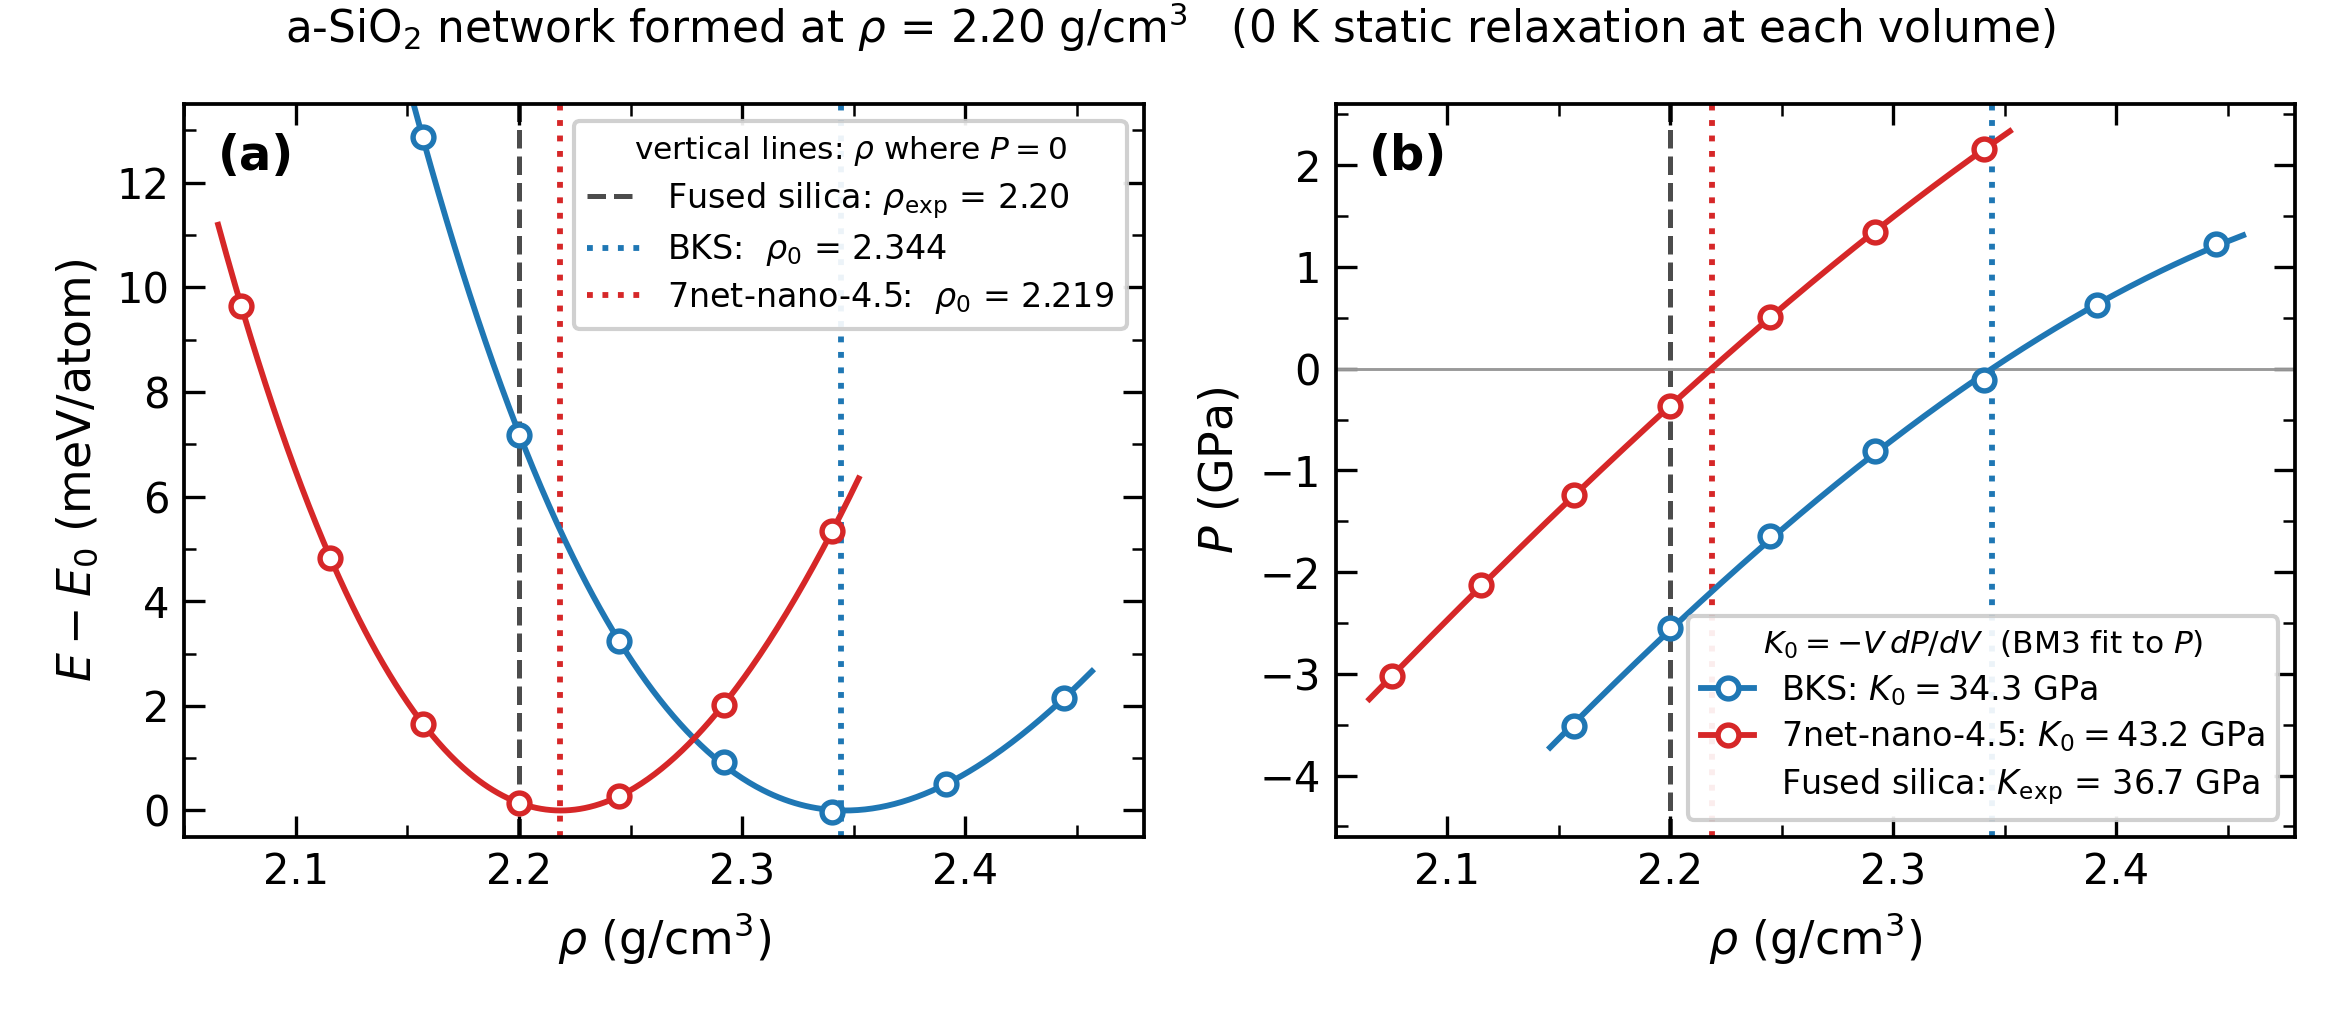
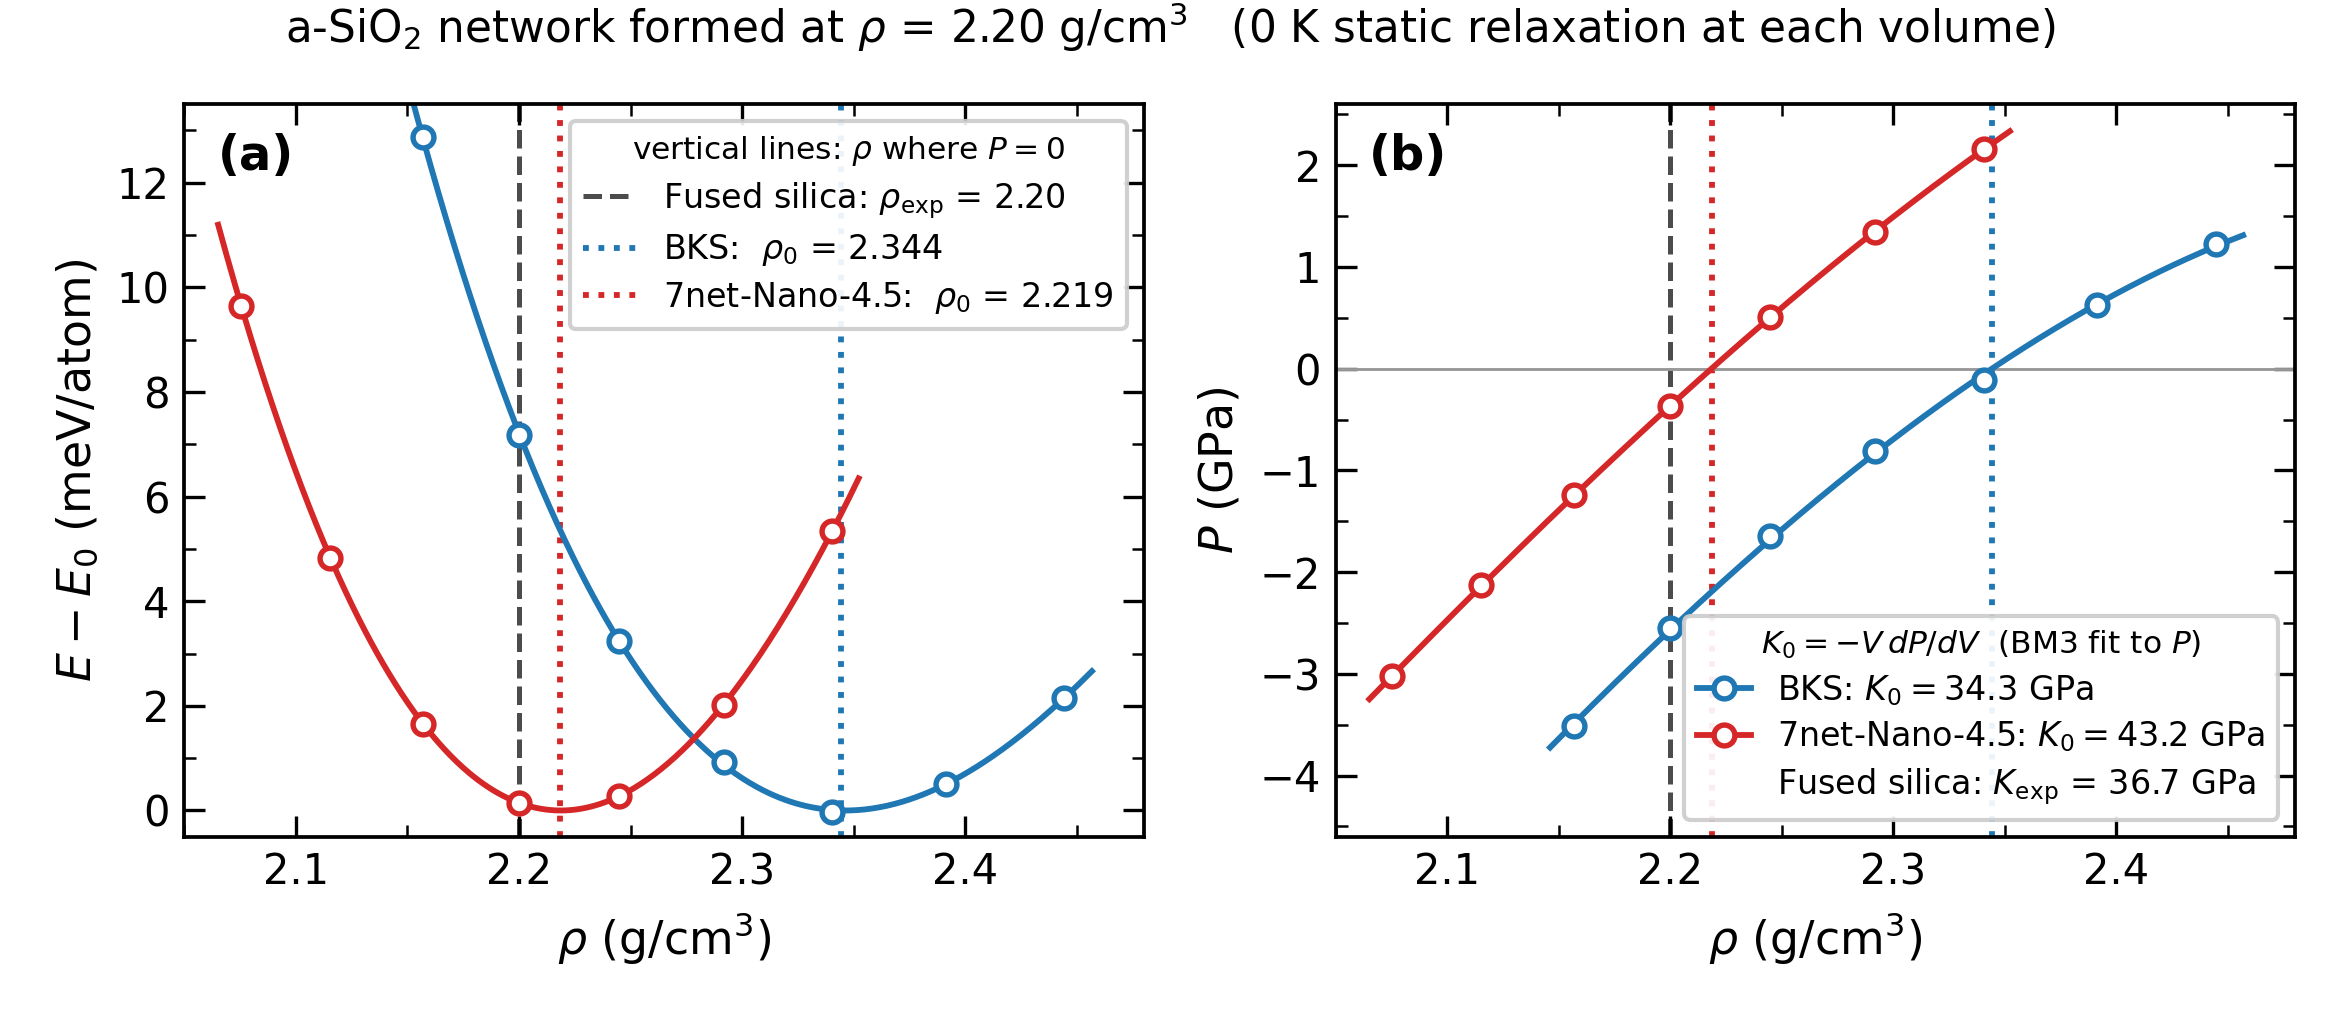
Consistency audit after the tail-on switch: found a v1 leak into RESULTS
Swept the repo for anything left stale by the tail-off -> tail-on change and by
the earlier rho=2.607 -> 2.20 restart. Five real problems.

1. fig_density.py's docstring still said "reported values are tail OFF" while
   the code reads ev_bks_scan_tail.txt. The file contradicted itself. Rewrote
   the docstring to state the tail-on grounds and to record that the original
   tail-off justification was circular.

2. RESULTS.md "lessons" section still claimed BKS is 5x more accurate on K0.
   With the tail on it is 2.7x. Fixed.

3. THE REAL FIND: RESULTS.md section 3(b) -- "the density drop is entirely
   explained by bond length, predicted -4.28 % vs measured -4.31 %, agreeing to
   0.03 %p" -- was carrying numbers from the DISCARDED rho=2.607 work
   (s2_relax/NOTE.md S2-3). There the comparison was Si-O 1.6123 -> 1.6360 with
   density 2.6071 -> 2.4948, i.e. the same structure relaxed by 7net at two
   volumes at 0 K. That is a clean apples-to-apples test and the claim was
   sound in its own context.

   The current section 3(b) is a completely different comparison: 300 K MD g(r)
   peak positions against 0 K equilibrium densities of two different potentials.
   The v1 numbers do not transfer. Recomputed honestly:

       prediction from mean Si-O (1.6147 -> 1.6369)   -4.01 %
       prediction from peak Si-O (1.605  -> 1.635 )   -5.40 %
       measured (2.3442 -> 2.2185)                    -5.36 %

   So the prediction swings 1.4 %p depending on which equally arbitrary
[…]

Changed region(s): [[0.7175, 0.6078, 0.9671, 0.7902], [0.2808, 0.1216, 0.4679, 0.3039], [0.2184, 0.1216, 0.2496, 0.3039]]

diff --git a/04_analysis/src/fig_density.py b/04_analysis/src/fig_density.py
@@ -1,5 +1,5 @@
 #!/usr/bin/env python
-"""Fig. density — 같은 유리 네트워크의 평형밀도와 부피탄성률: BKS vs 7net-nano-4.5.
+"""Fig. density — 같은 유리 네트워크의 평형밀도와 부피탄성률: BKS vs 7net-Nano-4.5.
 
 BKS 가 ρ=2.20 고정 NVT 로 만든 **하나의** 네트워크를 두 포텐셜에 각각 넘겨
 "너는 어느 부피를 원하냐"고 물었다. 각 부피에서 셀은 고정하고 원자만 0 K 이완.
@@ -83,7 +83,7 @@ RUN = ROOT / "02_run/s2_relax"
 # ★ BKS 는 **tail 보정 켠 쪽**(ev_bks_scan_tail.txt)이 보고값이다. 근거는 위 docstring.
 #   tail off 원자료도 남아 있다(ev_bks_scan.txt) — 절단 관례의 계통오차 크기를 재는 용도.
 SET = [("BKS", "tab:blue", RUN / "ev_bks_scan_tail.txt"),
-       ("7net-nano-4.5", "tab:red", RUN / "ev220_scan.txt")]
+       ("7net-Nano-4.5", "tab:red", RUN / "ev220_scan.txt")]
 RHO_BKS_NPT = 2.3401        # 300 K NPT (tail on) 100 ps 시간평균, in.npt_tail
 
 fit = {}
@@ -138,10 +138,10 @@ for lab, v in fit.items():
 a.set_xlabel(r"$\rho$ (g/cm$^3$)"); a.set_ylabel(r"$E-E_0$ (meV/atom)")
 a.set_ylim(-0.5, 13.5)
 # 범례 핸들은 마커가 아니라 **세로선** 이다. 세 선이 무엇인지가 이 패널의 요점이므로.
-a.legend([hx[0], hline["BKS"], hline["7net-nano-4.5"]],
+a.legend([hx[0], hline["BKS"], hline["7net-Nano-4.5"]],
          [rf"Fused silica: $\rho_{{\rm exp}}$ = {RHO_EXP:.2f}",
           rf"BKS:  $\rho_0$ = {RHO0['BKS']:.3f}",
-          rf"7net-nano-4.5:  $\rho_0$ = {RHO0['7net-nano-4.5']:.3f}"],
+          rf"7net-Nano-4.5:  $\rho_0$ = {RHO0['7net-Nano-4.5']:.3f}"],
          loc="upper right", framealpha=0.92, fontsize=8, handlelength=1.6,
          borderpad=0.4, labelspacing=0.35,
          title=r"vertical lines: $\rho$ where $P=0$", title_fontsize=7.5)
@@ -203,11 +203,11 @@ for lab, v in fit.items():
           f"{'   <- 절단 꼬리 artifact' if dK > 2 else '   <- 정합'}\n")
 
 print(f"실험 대비:  rho0  BKS {RHO0['BKS']:.4f} ({100*(RHO0['BKS']/RHO_EXP-1):+.2f} %)"
-      f"   7net {RHO0['7net-nano-4.5']:.4f} ({100*(RHO0['7net-nano-4.5']/RHO_EXP-1):+.2f} %)")
-KB, K7 = fit["BKS"]["pp"][1]*EV2BAR/1e4, fit["7net-nano-4.5"]["pp"][1]*EV2BAR/1e4
+      f"   7net {RHO0['7net-Nano-4.5']:.4f} ({100*(RHO0['7net-Nano-4.5']/RHO_EXP-1):+.2f} %)")
+KB, K7 = fit["BKS"]["pp"][1]*EV2BAR/1e4, fit["7net-Nano-4.5"]["pp"][1]*EV2BAR/1e4
 print(f"            K0    BKS {KB:.2f} ({100*(KB/K_EXP-1):+.1f} %)"
       f"   7net {K7:.2f} ({100*(K7/K_EXP-1):+.1f} %)     exp {K_EXP} GPa")
 print(f"\nMLIP 가 줄인 밀도 오차 배수: "
-      f"{abs(RHO0['BKS']/RHO_EXP-1)/abs(RHO0['7net-nano-4.5']/RHO_EXP-1):.1f}x")
+      f"{abs(RHO0['BKS']/RHO_EXP-1)/abs(RHO0['7net-Nano-4.5']/RHO_EXP-1):.1f}x")
 print(f"정합 확인: BKS 0 K virial {RHO0['BKS']:.4f} vs 300 K NPT {RHO_BKS_NPT:.4f}"
       f"  ({100*abs(RHO_BKS_NPT/RHO0['BKS']-1):.2f} % — 열팽창 무시 가능)")

diff --git a/04_analysis/src/fig_speed.py b/04_analysis/src/fig_speed.py
@@ -1,7 +1,7 @@
 #!/usr/bin/env python
 """Fig. speed — CPU 처리량과 병렬 확장성 (i5-11600K 6c12t, GPU 없음).
 
-(a) 처리량: BKS vs 7net-nano cutoff 4종. 로그 축.
+(a) 처리량: BKS vs 7net-Nano  cutoff 4종. 로그 축.
 (b) 병렬 확장성: OMP 스레드 / 독립 프로세스(리플리카) 둘 다 조기 포화.
     → 이 워크로드는 연산이 아니라 **메모리 대역폭**에 묶여 있다.
 
@@ -53,7 +53,7 @@ a.plot([5], [NANO_220], "o", ms=7, mfc="w", mec="tab:red", mew=1.6, zorder=5)
 a.set_yscale("log"); a.set_ylim(2e2, 4e6)
 a.set_xticks(xs); a.set_xticklabels(labs, fontsize=8.5)
 a.set_ylabel("throughput (atom-step / s)")
-a.set_xlabel(r"BKS        7net-nano  cutoff ($\rm\AA$)")
+a.set_xlabel(r"BKS        7net-Nano  cutoff ($\rm\AA$)")
 a.text(0.035, 0.91, "(a)", transform=a.transAxes, fontsize=11.5, fontweight="bold")
 # 배수 화살표 + 양 끝 높이를 가로 점선으로 연결해 어느 값끼리 비교하는지 명시
 a.hlines(BKS_220, 0, 5.35, ls=":", lw=0.9, color="0.35", zorder=1)
@@ -64,7 +64,7 @@ a.text(4.90, np.sqrt(NANO_220 * BKS_220)/2, f"×{BKS_220/NANO_220:,.0f}",
        fontsize=10, ha="right", va="center",
        bbox=dict(fc="white", ec="none", alpha=0.75, pad=1.0))
 a.plot([1.7], [7e4*3], "o", ms=7, mfc="w", mec="tab:red", mew=1.6, clip_on=False)
-a.text(1.85, 7e4*3, r"7net-nano-4.5 @ $\rho$2.20", fontsize=8.5, va="center")
+a.text(1.85, 7e4*3, r"7net-Nano-4.5 @ $\rho$2.20", fontsize=8.5, va="center")
 a.text(1.7, 2e4*3, r"bars: @ $\rho$2.607" + "\n" + r"(cutoff sweep)",
        fontsize=8.5, va="center")
 
@@ -79,7 +79,7 @@ b.plot(REPLICA[0], REPLICA[1] / REPLICA[1][0], "^-", ms=6, c="tab:purple",
 b.axvline(6, ls=":", lw=1.0, c="0.5")
 b.text(5.1, 5.8, "6 physical\ncores", fontsize=8, c="0.35", va="top", ha="right")
 b.set_xlim(0.5, 12.5); b.set_ylim(0, 6)
-b.set_xlabel("number of threads / processes"); b.set_ylabel("speedup")
+b.set_xlabel("number of threads or processes"); b.set_ylabel("speedup")
 b.set_xticks([1, 2, 4, 6, 8, 10, 12])
 b.legend(bbox_to_anchor = (1, 0.6), loc="center right", framealpha=0.9)
 b.text(0.035, 0.91, "(b)", transform=b.transAxes, fontsize=11.5, fontweight="bold")
@@ -100,7 +100,7 @@ print(f"  BKS      ρ=2.607  {BKS_261:>12,.0f}   (6 ranks)")
 for c in (6.0, 5.5, 5.0, 4.5):
     print(f"  7net {c}  ρ=2.607  {NANO_261[c]:>12,.1f}   (1 rank x 6 threads)")
 print(f"  7net 4.5  ρ=2.20   {NANO_220:>12,.1f}")
-print(f"\n생산 조건 배수 (둘 다 ρ=2.20): BKS / 7net-nano-4.5 = {BKS_220/NANO_220:,.0f}x")
+print(f"\n생산 조건 배수 (둘 다 ρ=2.20): BKS / 7net-Nano-4.5 = {BKS_220/NANO_220:,.0f}x")
 print(f"초기 조건 배수 (ρ=2.607, cutoff 5.5): {BKS_261/NANO_261[5.5]:,.0f}x")
 print(f"\n병렬 확장: 스레드 1->12 {THREADS[1][-1]/THREADS[1][0]:.2f}x, "
       f"프로세스 1->6 {REPLICA[1][-1]/REPLICA[1][0]:.2f}x  (ideal 12x / 6x)")

diff --git a/04_analysis/src/fig_pdf.py b/04_analysis/src/fig_pdf.py
@@ -1,7 +1,7 @@
 #!/usr/bin/env python
 """Fig. PDF — partial pair distribution functions of a-SiO2 at ρ = 2.20 g/cm³, 300 K.
 
-BKS vs 7net-nano-4.5 (본 작업) vs AIMD PBE (Dechant JPCC 2026, 색분리 digitize).
+BKS vs 7net-Nano-4.5 (본 작업) vs AIMD PBE (Dechant JPCC 2026, 색분리 digitize).
 공통 x축을 공유하는 3단 세로 배치. Si-O 는 1피크가 뾰족해 r=[1.5,1.8] inset 확대,
 inset 안에만 **평균 결합길이**(색 점선)와 실험값(검정 파선)을 표기한다.
 """
@@ -30,7 +30,7 @@ plt.rcParams.update({
 ALPHA = 0.8                      # 겹친 곡선 뒤가 비치도록
 
 OURS = [("BKS", "02_run/s0_requench/bks220", "tab:blue"),
-        ("7net-nano-4.5", "02_run/s3_md/7net220", "tab:red")]
+        ("7net-Nano-4.5", "02_run/s3_md/7net220", "tab:red")]
 AI = np.loadtxt(DAT / "dechant_pdf_digitized.dat")     # r, gSiO, gOO, gSiSi
 AILAB = "AIMD PBE (Dechant 2026)"
 EXP = {"Si-O": 1.61, "O-O": 2.63, "Si-Si": 3.08}       # Dechant Table 1, experimental

diff --git a/04_analysis/src/fig_bad.py b/04_analysis/src/fig_bad.py
@@ -32,8 +32,8 @@ plt.rcParams.update({
 ALPHA = 0.8
 
 OURS = [("BKS", "02_run/s0_requench/bks220_angles.dat", "tab:blue"),
-        ("7net-nano-4.5", "02_run/s3_md/7net220_angles.dat", "tab:red")]
-        #("7net-nano-4.5", "02_run/s3_md/7net220_angles.dat", "tab:red")]
+        ("7net-Nano-4.5", "02_run/s3_md/7net220_angles.dat", "tab:red")]
+        #("7net-Nano-4.5", "02_run/s3_md/7net220_angles.dat", "tab:red")]
 AI = np.loadtxt(DAT / "dechant_bad_digitized.dat")   # angle, OSiO_LES, OSiO_HES, SiOSi_LES, SiOSi_HES
 AILAB = "AIMD PBE\n(Dechant 2026)"
 #AILAB = "AIMD PBE (Dechant 2026)"

diff --git a/04_analysis/src/fig_rings.py b/04_analysis/src/fig_rings.py
@@ -95,7 +95,7 @@ ax.yaxis.set_minor_locator(AutoMinorLocator(2))
 # HandlerTuple 의 ndivide 는 스와치를 몇 칸으로 나눌지다.
 # None = 튜플 길이만큼 나눠 **나란히** 그림 → 원하는 건 ndivide=1 (한 칸에 포개기).
 ax.legend([(h_fill, h_edge), h_ai],
-          ["This work \n(BKS = 7net-nano-4.5)",
+          ["This work \n(BKS = 7net-Nano-4.5)",
            "AIMD PBE \n(Dechant 2026, 120 atoms)"],
           handler_map={tuple: HandlerTuple(ndivide=1)},
           loc="upper left", framealpha=0.9, fontsize=8.5, frameon=False)
